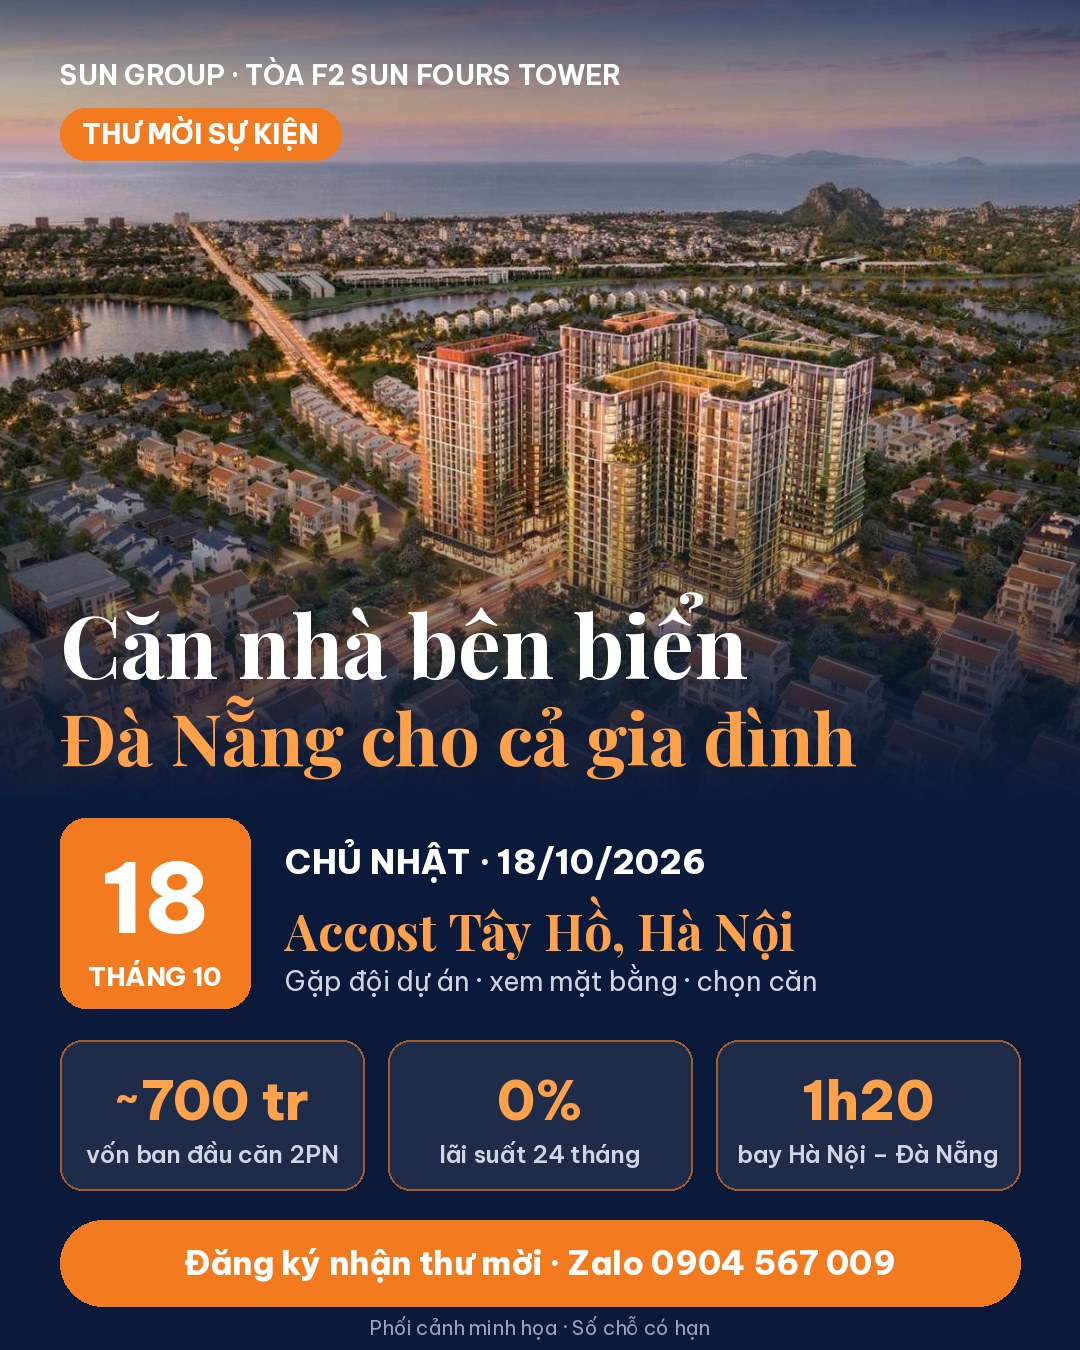
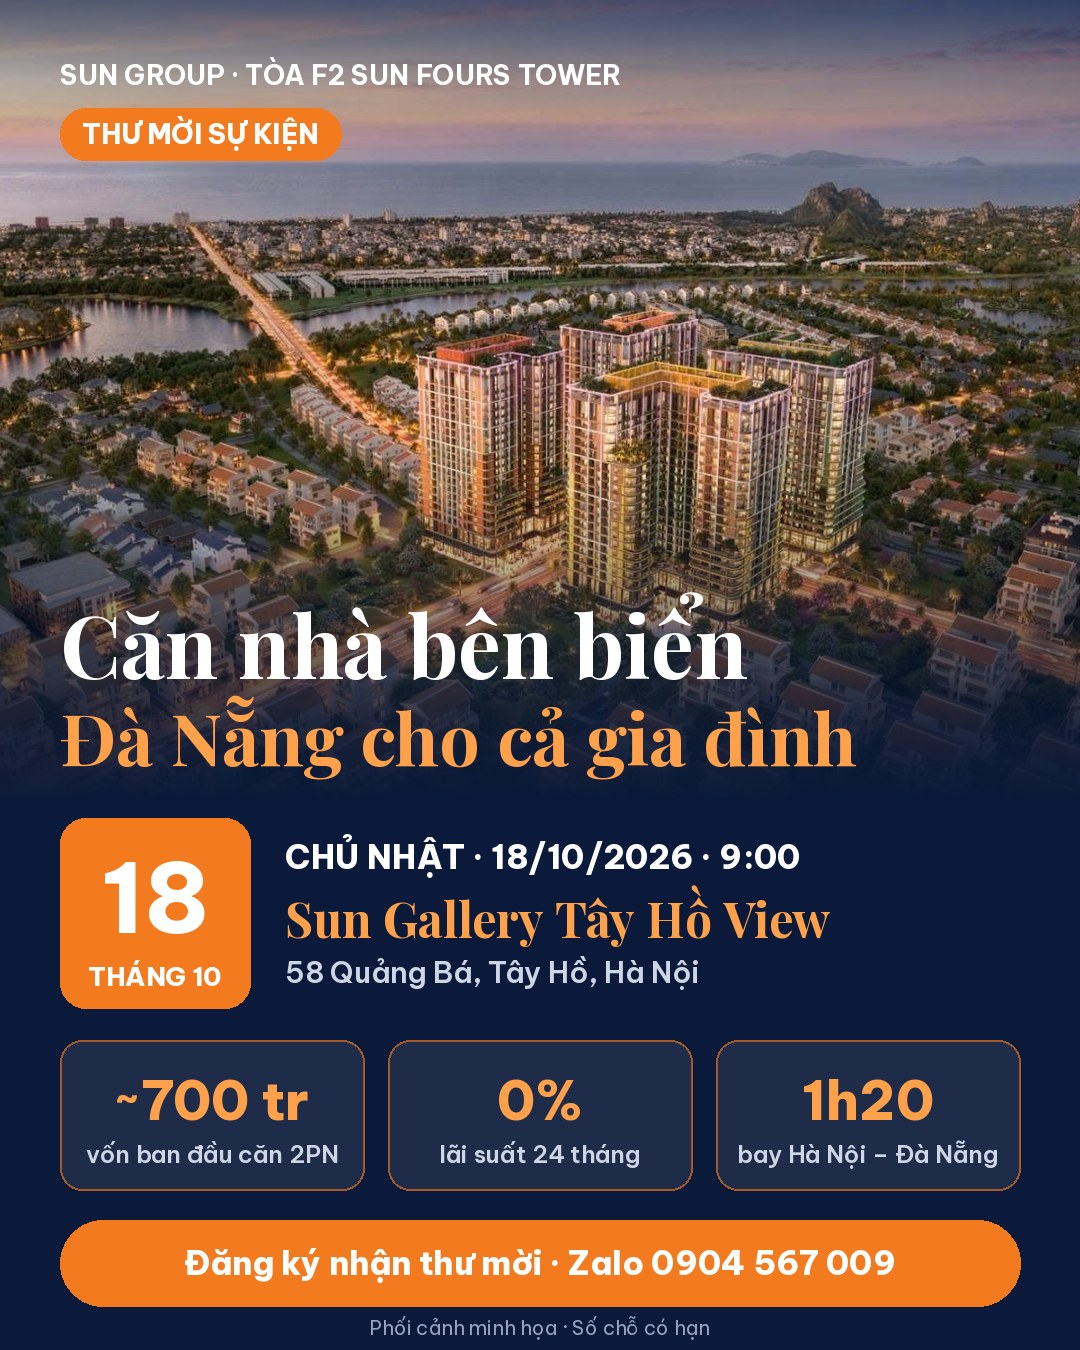
Sự kiện 18/10: cập nhật địa điểm Sun Gallery Tây Hồ View 58 Quảng Bá, giờ 9:00–11:20 vào ảnh, bài Zalo, bài Facebook; gắn lại link đăng ký
Claude-Session: https://claude.ai/code/session_01CN14qNn2qch2xafBnQUPUy

Changed region(s): [[0.2444, 0.6222, 0.7639, 0.7467]]

diff --git a/quang-cao/anh-zalo/tao-anh.py b/quang-cao/anh-zalo/tao-anh.py
@@ -46,9 +46,9 @@ text(d,(60,PH-112),'Đà Nẵng cho cả gia đình',F('pf-700',72),ORH)
 y=PH+18
 d.rounded_rectangle([60,y,250,y+190],radius=26,fill=OR)
 text(d,(155,y+80),'18',F('bvp-800',96),WHITE,'mm'); text(d,(155,y+158),'THÁNG 10',F('bvp-800',26),WHITE,'mm')
-text(d,(285,y+22),'CHỦ NHẬT · 18/10/2026',F('bvp-800',34),WHITE)
-text(d,(285,y+78),'Accost Tây Hồ, Hà Nội',F('pf-700',50),ORH)
-text(d,(285,y+146),'Gặp đội dự án · xem mặt bằng · chọn căn',F('bvp-400',27),MUTE)
+text(d,(285,y+18),'CHỦ NHẬT · 18/10/2026 · 9:00',F('bvp-800',33),WHITE)
+text(d,(285,y+68),'Sun Gallery Tây Hồ View',F('pf-700',48),ORH)
+text(d,(285,y+136),'58 Quảng Bá, Tây Hồ, Hà Nội',F('bvp-600',29),MUTE)
 # 3 ô số
 y=PH+240; w=(W-120-2*24)//3
 for i,(b,s) in enumerate([('~700 tr','vốn ban đầu căn 2PN'),('0%','lãi suất 24 tháng'),('1h20','bay Hà Nội – Đà Nẵng')]):
@@ -65,7 +65,7 @@ W,H=1080,1080; PH=470
 im=Image.new('RGBA',(W,H),NAVY+(255,)); im.paste(cover(photo,W,PH,0.3),(0,0))
 grad(im, PH-200, PH, NAVY, 0, 255); grad(im,0,120,NAVY,120,0)
 d=ImageDraw.Draw(im)
-pill(d,60,50,'SỰ KIỆN CN 18/10 · ACCOST TÂY HỒ',F('bvp-800',25),OR,WHITE,h=48)
+pill(d,60,50,'SỰ KIỆN CN 18/10 · SUN GALLERY TÂY HỒ VIEW',F('bvp-800',25),OR,WHITE,h=48)
 text(d,(60,PH-130),'Bay một giờ hai mươi phút –',F('pf-700',60),WHITE)
 text(d,(60,PH-60),'về nhà bên biển',F('pf-700',64),ORH)
 items=[('1h20','Đi về thuận tiện','Xuống sân bay 10 phút là về tới nhà'),

diff --git a/quang-cao/huong-dan-chi-tiet-facebook-ads.md b/quang-cao/huong-dan-chi-tiet-facebook-ads.md
@@ -1,7 +1,7 @@
 # Hướng dẫn chạy quảng cáo Facebook – trang "Căn nhà bên biển Đà Nẵng"
 
 **Trang đích:** https://www.sun-fours-tower.com/can-ho-bien-da-nang
-**Mục tiêu:** khách Hà Nội đăng ký giữ chỗ sự kiện **Chủ nhật 18/10 tại Accost Tây Hồ**, hoặc để lại số nhận bảng tính.
+**Mục tiêu:** khách Hà Nội đăng ký giữ chỗ sự kiện **Chủ nhật 18/10 tại Sun Gallery Tây Hồ View**, hoặc để lại số nhận bảng tính.
 **Thời gian chạy:** Thứ Hai 12/10 → 12:00 Thứ Bảy 17/10.
 **Nội dung quảng cáo:** dùng 3 bài trong file `bai-facebook-su-kien-18-10.md`.
 
@@ -145,7 +145,7 @@ Mỗi khách để lại số, Telegram báo ngay kèm: tên, số, nhu cầu, h
 
 1. **Gọi trong 5–15 phút.** Gọi càng sớm, tỷ lệ khách nghe máy càng cao.
 2. Kịch bản ngắn:
-   > "Em chào anh chị, em là … bên dự án Sun FourS Tower Đà Nẵng. Anh chị vừa đăng ký tham dự sự kiện Tòa F2 Chủ nhật 18/10 tại Accost Tây Hồ. Em xin phép xác nhận anh chị đi mấy người để em gửi thư mời ghi tên ạ?"
+   > "Em chào anh chị, em là … bên dự án Sun FourS Tower Đà Nẵng. Anh chị vừa đăng ký tham dự sự kiện Tòa F2 Chủ nhật 18/10 tại Sun Gallery Tây Hồ View. Em xin phép xác nhận anh chị đi mấy người để em gửi thư mời ghi tên ạ?"
 3. **Gửi thư mời qua Zalo** ngay sau cuộc gọi (kèm giờ, địa chỉ, bản đồ).
 4. Khách chọn "Tư vấn qua video": hẹn giờ gọi video trong ngày 18/10.
 5. **Nhắc lịch:** tối 17/10 nhắn Zalo nhắc; sáng 18/10 gọi xác nhận lần cuối.
@@ -161,7 +161,7 @@ Nhắm vào người đã vào trang nhưng chưa để lại số:
 3. Tạo thêm 1 đối tượng: sự kiện **Lead** · 30 ngày · tên `Da de lai so`.
 4. Tạo nhóm quảng cáo mới, ngân sách 200–300 nghìn/ngày, chạy 15/10 → 12:00 17/10:
    - **Bao gồm:** `Khach vao trang 30 ngay` · **Loại trừ:** `Da de lai so`.
-   - Nội dung: *"Chủ nhật này 18/10 – còn ít chỗ tại Accost Tây Hồ. Anh chị đăng ký để nhận thư mời ghi tên."* Dùng ảnh khác 3 bài đầu.
+   - Nội dung: *"Chủ nhật này 18/10 – còn ít chỗ tại Sun Gallery Tây Hồ View. Anh chị đăng ký để nhận thư mời ghi tên."* Dùng ảnh khác 3 bài đầu.
 
 ---
 

diff --git a/quang-cao/bai-facebook-su-kien-18-10.md b/quang-cao/bai-facebook-su-kien-18-10.md
@@ -15,7 +15,7 @@ Nhấn vào 4 ý:
 - Bịa lời khách hàng.
 - Ghi "view sông Hàn".
 
-**Địa điểm:** Accost Tây Hồ, Hà Nội. **Giờ:** bổ sung khi có thư mời chính thức.
+**Địa điểm:** Sun Gallery Tây Hồ View, 58 Quảng Bá, Tây Hồ, Hà Nội. **Giờ:** 9:00 – 11:20.
 
 ---
 
@@ -40,7 +40,7 @@ Tòa F2 – Sun FourS Tower (Sun Group)
 🏦 Vay 70%, 24 tháng không lãi, không gốc
 🔑 Nhận nhà dự kiến 31/05/2028
 
-📅 Chủ nhật 18/10 – Sự kiện giới thiệu Tòa F2 tại Accost Tây Hồ, Hà Nội
+📅 Chủ nhật 18/10 – Sự kiện giới thiệu Tòa F2 tại Sun Gallery Tây Hồ View (58 Quảng Bá, Tây Hồ, Hà Nội)
 Mời anh chị cùng gia đình đến xem mặt bằng, chọn căn và trao đổi trực tiếp với đội dự án.
 
 👉 Đăng ký giữ chỗ – số chỗ có hạn.
@@ -75,7 +75,7 @@ Pháp lý rõ ràng:
 ✅ Techcombank cam kết bảo lãnh cho người mua
 ✅ Đã nghiệm thu kết cấu móng hầm
 
-📅 Chủ nhật 18/10 tại Accost Tây Hồ, Hà Nội: ngồi cùng đội dự án, tính dòng tiền đúng căn anh chị chọn.
+📅 Chủ nhật 18/10 tại Sun Gallery Tây Hồ View (58 Quảng Bá, Tây Hồ, Hà Nội): ngồi cùng đội dự án, tính dòng tiền đúng căn anh chị chọn.
 👉 Giữ chỗ hoặc nhận bảng tính qua Zalo.
 ```
 **Tiêu đề:** `Vốn ~700 triệu, căn hộ Sun Group bên biển`
@@ -105,7 +105,7 @@ Mua chắc mà chưa cần bay vào:
 3⃣ Giữ căn với cọc 100 triệu, có hợp đồng giữ chỗ
 4⃣ Ký hợp đồng khi thuận tiện
 
-📅 Chủ nhật 18/10 – gặp đội dự án Tòa F2 Sun FourS Tower ngay tại Accost Tây Hồ, Hà Nội.
+📅 Chủ nhật 18/10 – gặp đội dự án Tòa F2 Sun FourS Tower ngay tại Sun Gallery Tây Hồ View (58 Quảng Bá, Tây Hồ, Hà Nội).
 👉 Đăng ký giữ chỗ cho gia đình.
 ```
 **Tiêu đề:** `Ngôi nhà thứ hai bên biển Đà Nẵng`
